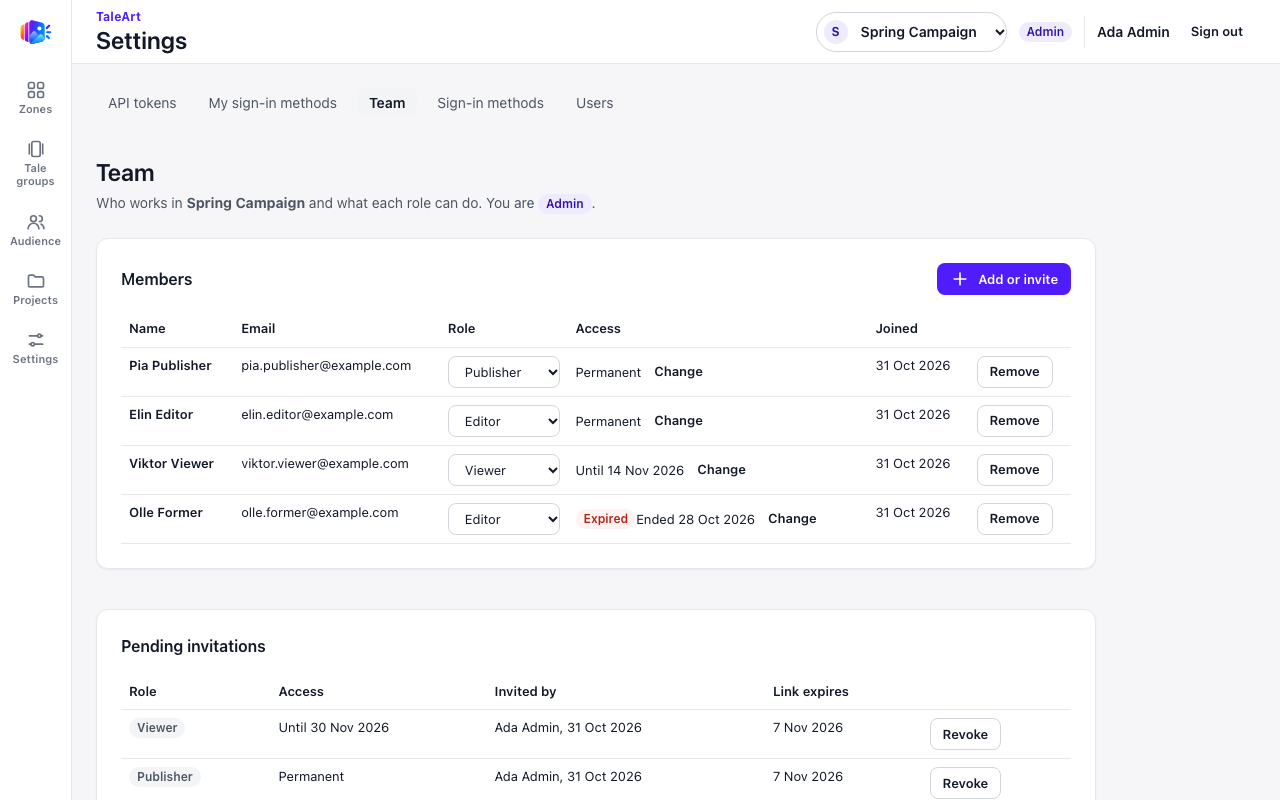
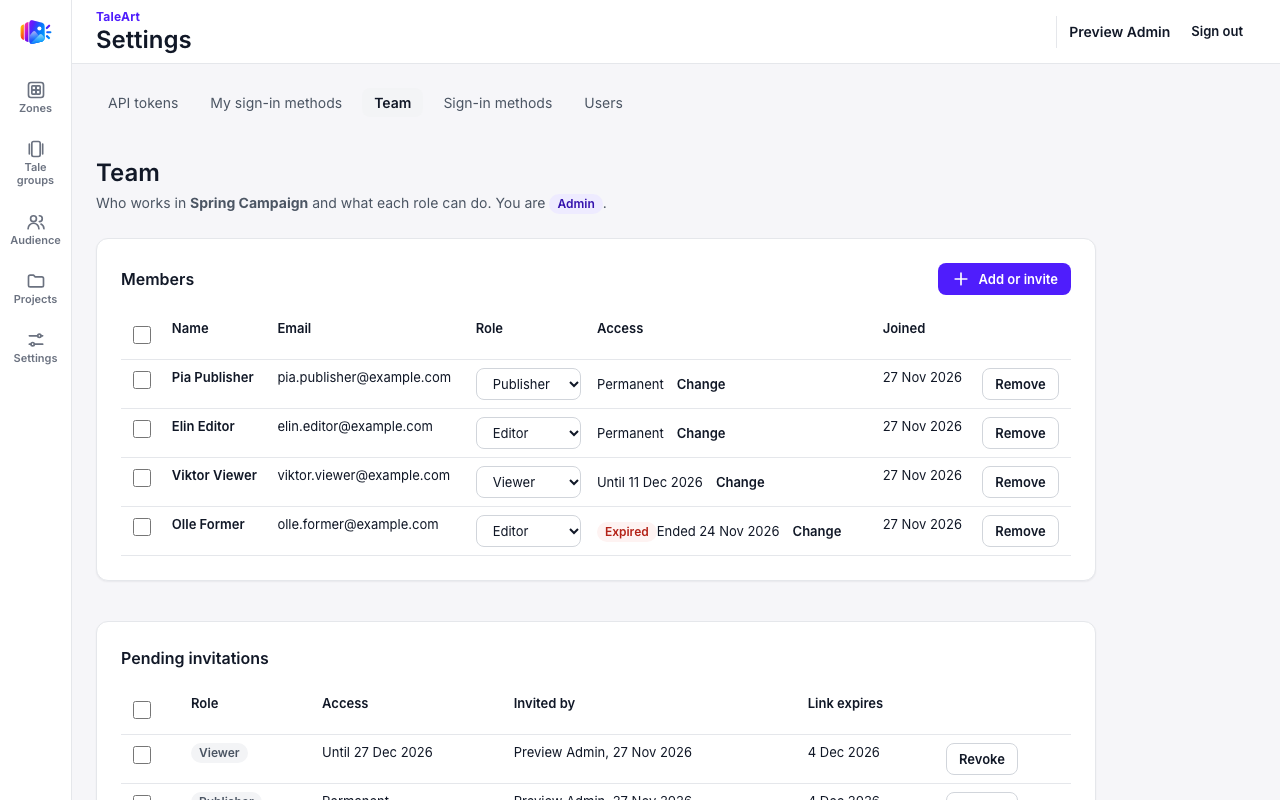
Docs: retake the screenshots of the demo zones, tale groups and team, add the selection screenshot and passage

diff --git a/apps/docs/src/app/pages/tale-groups-and-tales.spec.ts b/apps/docs/src/app/pages/tale-groups-and-tales.spec.ts
@@ -1,0 +1,56 @@
+import { existsSync, readFileSync, statSync } from 'node:fs';
+import { dirname, join } from 'node:path';
+import { TestBed } from '@angular/core/testing';
+import { provideRouter } from '@angular/router';
+import { RouterTestingHarness } from '@angular/router/testing';
+import { appRoutes } from '../app.routes';
+
+function workspaceRoot(): string {
+  let dir = process.cwd();
+  while (!existsSync(join(dir, 'nx.json'))) {
+    const up = dirname(dir);
+    if (up === dir) throw new Error('nx.json not found above ' + process.cwd());
+    dir = up;
+  }
+  return dir;
+}
+
+const IMAGES = join(workspaceRoot(), 'apps/docs/public/images');
+
+/** The intrinsic size of a PNG, from its IHDR chunk. */
+function pngSize(file: string): { width: number; height: number } {
+  const bytes = readFileSync(join(IMAGES, file));
+  return { width: bytes.readUInt32BE(16), height: bytes.readUInt32BE(20) };
+}
+
+describe('the Tale groups and tales guide', () => {
+  let page: HTMLElement;
+
+  beforeEach(async () => {
+    TestBed.configureTestingModule({ providers: [provideRouter(appRoutes)] });
+    const harness = await RouterTestingHarness.create('/tale-groups-and-tales');
+    page = harness.routeNativeElement as HTMLElement;
+  });
+
+  it('explains selecting several groups, with the bar and the other lists', () => {
+    const text = page.textContent ?? '';
+    expect(text).toContain('Select several tale groups with the checkboxes.');
+    expect(text).toContain('Archive, Show in another zone and Copy to zone');
+    expect(text).toContain('API tokens, team members, invitations, user lists, tales in a tale group, and fonts.');
+  });
+
+  it('shows the selection screenshot, with alt text, a caption and the file at its size', () => {
+    const figure = page.querySelector('#select-several ~ figure');
+    const img = figure?.querySelector('img');
+    const src = img?.getAttribute('src') ?? '';
+    expect(src).toBe('images/bulk-shot-tale-groups-selection.png');
+    expect(img?.getAttribute('alt')?.trim().length ?? 0).toBeGreaterThan(40);
+    expect(figure?.querySelector('figcaption')?.textContent?.trim()).toBeTruthy();
+    const file = src.replace(/^images\//, '');
+    expect(existsSync(join(IMAGES, file)), file).toBe(true);
+    expect(statSync(join(IMAGES, file)).size, file).toBeLessThanOrEqual(300 * 1024);
+    const size = pngSize(file);
+    expect(String(size.width), file).toBe(img?.getAttribute('width'));
+    expect(String(size.height), file).toBe(img?.getAttribute('height'));
+  });
+});

diff --git a/apps/docs/src/app/pages/demo-data.ts b/apps/docs/src/app/pages/demo-data.ts
@@ -25,7 +25,7 @@ import { RouterLink } from '@angular/router';
     <figure>
       <img
         src="images/docker-shot-demo-zones.png"
-        alt="The Zones page of the Spring Campaign project: three zone cards, Home stories, Sale banner and Collection posters, each marked Visible on site and Installed, with 5, 2 and 3 tale groups."
+        alt="The Zones page of the Spring Campaign project: three zone cards, Home stories, Sale banner and Collection posters, each with a green check for visible on site and an Installed label, with 5, 2 and 3 tale groups."
         width="1280"
         height="800"
       />
@@ -43,11 +43,11 @@ import { RouterLink } from '@angular/router';
     <figure>
       <img
         src="images/demo-shot-zone-groups.png"
-        alt="The Home stories zone page, Tale groups tab: a list of tale groups with covers, tags, On switches and the reason each is visible on the site."
+        alt="The Home stories zone page, Tale groups tab: a list of tale groups with round covers, tags and On switches. Each group has a marker by its name: a green check when it is visible on the site, an orange exclamation mark when it needs attention."
         width="1280"
         height="800"
       />
-      <figcaption>Inside the zone <em>Home stories</em>: each group shows why it is visible, here for viewers with a matching tag.</figcaption>
+      <figcaption>Inside the zone <em>Home stories</em>: each group has a marker. Its tooltip says why it is visible, here for viewers with a matching tag.</figcaption>
     </figure>
     <p>The details are in the table at the end of the page.</p>
 
@@ -112,7 +112,7 @@ import { RouterLink } from '@angular/router';
     <figure>
       <img
         src="images/demo-shot-team.png"
-        alt="Settings, Team for Spring Campaign: four members, Pia Publisher, Elin Editor, Viktor Viewer with access until 14 Nov 2026 and Olle Former marked Expired, and below them a Pending invitations table with a Viewer and a Publisher invitation."
+        alt="Settings, Team for Spring Campaign: four members, Pia Publisher, Elin Editor, Viktor Viewer with access until 11 Dec 2026 and Olle Former marked Expired, and below them a Pending invitations table with a Viewer and a Publisher invitation."
         width="1280"
         height="800"
       />

diff --git a/apps/docs/src/app/pages/tale-groups-and-tales.ts b/apps/docs/src/app/pages/tale-groups-and-tales.ts
@@ -40,6 +40,12 @@ import { RouterLink } from '@angular/router';
 </tbody>
 </table></div>
 <p>The filter chips on the list (All, Visible, Off, Scheduled, Targeted, Not in a zone, Archived) count groups by state.</p>
+<h2 id="select-several">Select several groups</h2>
+<p>Select several tale groups with the checkboxes. A bar shows how many are selected and offers <strong>Archive</strong>, <strong>Show in another zone</strong> and <strong>Copy to zone</strong>. The same checkboxes work on API tokens, team members, invitations, user lists, tales in a tale group, and fonts.</p>
+<figure>
+  <img class="guide-img" alt="The Tale groups list with two groups selected: the checkboxes of Care tips and Living room are ticked. A bar above the list reads 2 selected and offers Show in another zone, Copy to zone, Archive and Clear selection." src="images/bulk-shot-tale-groups-selection.png" width="1000" height="800" />
+  <figcaption>Two tale groups selected, a real screenshot. <em>Select all</em> sits above the list.</figcaption>
+</figure>
 <h2 id="the-group-menu">The group menu</h2>
 <p>The <strong>...</strong> menu on each group has:</p>
 <ul>

diff --git a/apps/docs/src/app/pages/projects-and-team.ts b/apps/docs/src/app/pages/projects-and-team.ts
@@ -20,7 +20,7 @@ import { RouterLink } from '@angular/router';
 <h2 id="settings">Settings</h2>
 <p><strong>Settings</strong> holds your <a routerLink="/api-tokens">API tokens</a>, your sign-in methods, the project's <strong>Team</strong>, and, for the install's admin, the sign-in methods of the install and the list of users.</p>
 <h2 id="switching-projects">Switching projects</h2>
-<p>The project picker in the header changes which project the dashboard shows. <strong>New project</strong> creates another one.</p>
+<p>The project picker in the header changes which project the dashboard shows. The picker appears only when you are in more than one project. <strong>New project</strong> creates another one.</p>
   `,
 })
 export class ProjectsAndTeamPage {}

diff --git a/apps/docs/src/app/pages/docker.ts b/apps/docs/src/app/pages/docker.ts
@@ -173,7 +173,7 @@ import { RouterLink } from '@angular/router';
     <figure>
       <img
         src="images/docker-shot-demo-zones.png"
-        alt="The dashboard after setup on the quick try: the Zones page of the Spring Campaign demo project, signed in as Ada Admin, with three zone cards, Home stories, Sale banner and Collection posters."
+        alt="The dashboard after setup on the quick try: the Zones page of the Spring Campaign demo project, signed in as the first admin, with three zone cards, Home stories, Sale banner and Collection posters."
         width="1280"
         height="800"
       />
